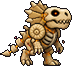
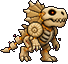
막차: 방 모양·배치 다양화, 부서지는 기물, 보스 3종, 집탄, 무기 3레벨, 스킬 레벨업, 설명 줄임

diff --git a/makcha/client/main.js b/makcha/client/main.js
@@ -1,6 +1,6 @@
 // 막차: 화면(입력·그리기·미니맵·직업 고르기). 게임 규칙은 sim/에만 있고, 여기서는 그리기만 한다
 import { step } from '../sim/world.js';
-import { createRun, offerLines, enterLine, finishLine, RUN_LINES, offerAbilities, applyAbility, ABILITIES, enhanceWeapon, ENHANCE_COST, MAX_LV, GEAR, canCraft, craftGear } from '../sim/run.js';
+import { createRun, offerLines, enterLine, finishLine, RUN_LINES, offerAbilities, applyAbility, ABILITIES, enhanceWeapon, ENHANCE_COST, MAX_LV, GEAR, canCraft, craftGear, upgradeSkill, SKILL_COST, SKILL_MAX } from '../sim/run.js';
 import { T, tileAt } from '../sim/dungeon.js';
 import { INPUT, TILE, DT, VIEW_W, VIEW_H } from '../sim/constants.js';
 import { JOBS, JOB_ORDER, WEAPONS, MONSTERS, LINES, MATS } from '../sim/data.js';
@@ -63,13 +63,13 @@ function bakeFloor(f) {
 
 // ---------- 몬스터: 구역 1 그림(삼엽충, 암모나이트, 내성균 덩어리, 화석 짜깁기 공룡). 그림은 오른쪽을 보고 있다 ----------
 function drawMon(m, t) {
-  const small = MONSTERS[m.id].small, fr = A.mons[m.id] || A.mons.germ, X = Math.round(m.x), Y = Math.round(m.y);   // 작은 내성균은 내성균 그림을 작게
-  const img = m.id === 'fossilrex' ? (m.windT > 0 ? fr[m.windT < 0.2 ? 3 : 2] : fr[Math.floor(t * 3) % 2]) : fr[Math.floor(m.t * (m.dash > 0 ? 16 : 8)) % fr.length];
+  const M = MONSTERS[m.id], small = M.small, fr = A.mons[m.id] || A.mons[M.sprite] || A.mons.germ, X = Math.round(m.x), Y = Math.round(m.y);   // 작은 내성균은 내성균 그림을 작게, 그림 없는 보스는 색을 입혀 임시로
+  const img = M.kind === 'boss' ? (m.windT > 0 ? fr[m.windT < 0.2 ? 3 : 2] : fr[Math.floor(t * 3) % 2]) : fr[Math.floor(m.t * (m.dash > 0 ? 16 : 8)) % fr.length];
   x.fillStyle = 'rgba(0,0,0,.3)'; x.beginPath(); x.ellipse(X, Y, img.width * 0.35, 3, 0, 0, 7); x.fill();
-  x.save(); x.translate(X, Y); x.scale(m.face, 1); if (m.flash > 0) x.filter = 'brightness(3)'; else if (m.stun > 0) x.filter = 'hue-rotate(180deg) saturate(2) brightness(1.3)'; if (small) x.scale(0.6, 0.6); x.drawImage(img, -Math.round(img.width / 2), -img.height + 1); x.restore();
+  x.save(); x.translate(X, Y); x.scale(m.face, 1); if (m.flash > 0) x.filter = 'brightness(3)'; else if (m.invuln) x.filter = 'grayscale(1) brightness(.7)'; else if (m.stun > 0) x.filter = 'hue-rotate(180deg) saturate(2) brightness(1.3)'; else if (M.tint) x.filter = M.tint; if (small) x.scale(0.6, 0.6); x.drawImage(img, -Math.round(img.width / 2), -img.height + 1); x.restore();
   const top = Y - img.height;
   if (game.w?.scanT > 0) { x.strokeStyle = '#ff4a3a'; x.lineWidth = 1; x.strokeRect(X - 4.5, top + img.height * 0.4 - 4.5, 9, 9); x.fillStyle = '#ff4a3a'; x.fillRect(X - 1, top + img.height * 0.4 - 1, 2, 2); }
-  if (m.id === 'fossilrex') { const W = 60; x.fillStyle = '#111'; x.fillRect(X - W / 2, top - 8, W, 5); x.fillStyle = '#d84a3a'; x.fillRect(X - W / 2 + 1, top - 7, (W - 2) * m.hp / m.maxHp, 3); }
+  if (M.kind === 'boss') { const W = 60; x.fillStyle = '#111'; x.fillRect(X - W / 2, top - 8, W, 5); x.fillStyle = '#d84a3a'; x.fillRect(X - W / 2 + 1, top - 7, (W - 2) * m.hp / m.maxHp, 3); }
   if (m.windT > 0) { x.font = 'bold 14px sans-serif'; x.textAlign = 'center'; x.lineWidth = 3; x.strokeStyle = '#000'; x.strokeText('!', X, top - 10); x.fillStyle = '#ff3a2a'; x.fillText('!', X, top - 10); }
 }
 
@@ -101,11 +101,8 @@ function feed(w) {
     else if (e.type === 'fire') { fx.flashes.push({ x: p.x + p.face * 4 + Math.cos(p.aim) * 12, y: p.y - 9 + Math.sin(p.aim) * 12, a: p.aim, t: 0.05 }); fx.shake = Math.max(fx.shake, WEAPONS[e.weapon].kick * 1.5); }
     else if (e.type === 'hurt') { fx.shake = Math.max(fx.shake, 4); fx.nums.push({ x: p.x, y: p.y - 34, v: '-' + e.amount, t: 0.8, red: true }); }
     else if (e.type === 'spark') fx.parts.push({ x: e.x, y: e.y, vx: 0, vy: -20, t: 0.15, c: '#fff' });
-    else if (e.type === 'lock') tip('🚪 문이 잠겼다! 적을 모두 쓰러뜨려라', 2);
-    else if (e.type === 'clear') tip('✅ 방을 정리했다. 문이 열렸다', 2);
-    else if (e.type === 'chest') tip('📦 보급 상자를 열었다: 재료와 부품, 가끔 무기', 2.5);
     else if (e.type === 'pickup') fx.nums.push({ x: p.x, y: p.y - 36, v: e.kind === 'mat' ? `+${MATS[e.id]}` : `+부품 ${e.n}`, t: 0.8, gold: true });
-    else if (e.type === 'getWeapon') tip(`🔫 ${josa(WEAPONS[e.id].name, '을', '를')} 들었다 · ${WEAPONS[e.id].traitText}`, 2.5);
+    else if (e.type === 'getWeapon') tip(`🔫 ${WEAPONS[e.id].name}`, 1.5);
     else if (e.type === 'swap') tip(`🔁 ${WEAPONS[p.weapons[p.cur].id].name}`, 0.9);
     else if (e.type === 'zap') fx.zaps = (fx.zaps || []).concat([{ ...e, t: 0.12 }]);
     else if (e.type === 'trapHit') { fx.rings.push({ x: e.x, y: e.y, r: e.r, t: 0.35, c: { vent: '#ff7a2a', meteor: '#ffb060', gas: '#9ad050', heat: '#ffb040', icicle: '#bfe8ff', drip: '#ff9a4a', acidrain: '#b8f040', vine: '#6ac050' }[e.kind] || '#fff' });
@@ -113,8 +110,7 @@ function feed(w) {
     else if (e.type === 'burn') fx.parts.push({ x: e.x + (Math.random() - 0.5) * 8, y: e.y, vx: 0, vy: -30, t: 0.35, c: Math.random() < 0.5 ? '#ff8a3a' : '#ffd060' });
     else if (e.type === 'sleep') { const m = w.mons.find(o => o.uid === e.uid); if (m) fx.nums.push({ x: m.x, y: m.y - 28, v: 'Zz', t: 1.2, blue: true }); }
     else if (e.type === 'propBreak') { for (let i = 0; i < 10; i++) fx.parts.push({ x: e.x, y: e.y - 6, vx: (Math.random() - 0.5) * 140, vy: (Math.random() - 0.7) * 120, t: 0.4, c: i % 2 ? '#b9844a' : '#6a4a2a' }); fx.shake = Math.max(fx.shake, 2); }
-    else if (e.type === 'pattern') { const N = { ring: '원형 탄막', fan: '부채꼴 사격', charge: '돌진', summon: '화석 소환' }; tip(`⚠ 보스: ${N[e.name] || e.name}`, 1.2); }
-    else if (e.type === 'skill') { fx.skillFlash = 0.35; tip(`✨ ${JOBS[p.job].skill.name}`, 1.2); }
+    else if (e.type === 'skill') fx.skillFlash = 0.35;
     else if (e.type === 'charge') fx.nums.push({ x: p.x, y: p.y - 36, v: `방어막 +${e.amount}`, t: 1, blue: true });
     else if (e.type === 'splash') { fx.rings.push({ x: e.x, y: e.y, r: e.r, t: 0.35, c: '#7ad0ff' }); for (let i = 0; i < 18; i++) fx.parts.push({ x: e.x, y: e.y - 4, vx: (Math.random() - 0.5) * 220, vy: (Math.random() - 0.5) * 160, t: 0.45, c: i % 2 ? '#bfe8ff' : '#ffffff' }); fx.shake = Math.max(fx.shake, 3); }
     else if (e.type === 'heal') fx.nums.push({ x: p.x, y: p.y - 34, v: '+1', t: 0.7, green: true });
@@ -170,7 +166,10 @@ function drawWorld(w, t) {
     else if (k.kind === 'mat') { const C = { cloth: '#d8c8a8', rubber: '#3a3a3a', glass: '#9ad8f0', filter: '#e8e8e8', scrap: '#8a8f98', leather: '#8a5a3a' }[k.id]; x.fillStyle = '#111'; x.fillRect(X - 5, Y - 7, 10, 9); x.fillStyle = C; x.fillRect(X - 4, Y - 6, 8, 7); }
     else { x.fillStyle = '#111'; x.fillRect(X - 5, Y - 7, 10, 10); x.fillStyle = '#c8ccd2'; x.fillRect(X - 4, Y - 6, 8, 8); x.fillStyle = '#5a5f68'; x.fillRect(X - 1, Y - 3, 3, 3); }
   }
-  for (const o of w.props) { const X = Math.round(o.x), Y = Math.round(o.y); x.fillStyle = 'rgba(0,0,0,.3)'; x.fillRect(X - 9, Y - 1, 18, 3); x.fillStyle = '#2a1c10'; x.fillRect(X - 9, Y - 15, 18, 15); x.fillStyle = '#a8743a'; x.fillRect(X - 8, Y - 14, 16, 13); x.fillStyle = '#7a5028'; x.fillRect(X - 8, Y - 9, 16, 2); x.fillRect(X - 1, Y - 14, 2, 13); x.fillStyle = '#c8945a'; x.fillRect(X - 8, Y - 14, 16, 2); }
+  for (const o of w.props) { const X = Math.round(o.x), Y = Math.round(o.y); x.fillStyle = 'rgba(0,0,0,.3)'; x.fillRect(X - 9, Y - 1, 18, 3);
+    if (o.kind === 'rock') { x.fillStyle = '#18161a'; x.fillRect(X - 10, Y - 14, 20, 14); x.fillStyle = '#6a6460'; x.fillRect(X - 9, Y - 13, 18, 12); x.fillStyle = '#8a847c'; x.fillRect(X - 8, Y - 13, 9, 4); x.fillStyle = '#4a4642'; x.fillRect(X + 2, Y - 7, 6, 5); if (o.hp < 14) { x.fillStyle = '#18161a'; x.fillRect(X - 2, Y - 12, 1, 7); x.fillRect(X - 1, Y - 6, 3, 1); } continue; }
+    if (o.kind === 'barrel') { x.fillStyle = '#18161a'; x.fillRect(X - 7, Y - 16, 14, 16); x.fillStyle = '#c83a2a'; x.fillRect(X - 6, Y - 15, 12, 14); x.fillStyle = '#e8c040'; x.fillRect(X - 6, Y - 10, 12, 3); x.fillStyle = '#1c1c1c'; x.fillRect(X - 2, Y - 10, 4, 3); x.fillStyle = '#e86a5a'; x.fillRect(X - 6, Y - 15, 12, 2); continue; }
+    x.fillStyle = '#2a1c10'; x.fillRect(X - 9, Y - 15, 18, 15); x.fillStyle = '#a8743a'; x.fillRect(X - 8, Y - 14, 16, 13); x.fillStyle = '#7a5028'; x.fillRect(X - 8, Y - 9, 16, 2); x.fillRect(X - 1, Y - 14, 2, 13); x.fillStyle = '#c8945a'; x.fillRect(X - 8, Y - 14, 16, 2); }
   if (p.dashT > 0) fx.trail.push({ x: p.x, y: p.y, t: 0.25 });
   for (const q of fx.trail) { x.globalAlpha = q.t * 2; x.fillStyle = '#7ad0ff'; x.fillRect(Math.round(q.x) - 6, Math.round(q.y) - 22, 12, 22); } x.globalAlpha = 1;
   const list = [...w.mons.map(m => ({ y: m.y, d: () => drawMon(m, t) })), { y: p.y, d: () => drawPlayer(p, t) }];
@@ -206,7 +205,7 @@ function hud(w, dt) {
   if (tipT > 0 && (tipT -= dt) <= 0) $('tip').classList.remove('on');
   // 무기 칸(웹 글씨): 바뀔 때만 다시 만든다
   const key = p.cur + ':' + p.weapons.map(it => it.id + it.lv).join(',');
-  if (key !== lastSlots) { lastSlots = key; $('wslots').innerHTML = p.weapons.map((it, i) => `<div class="ws ${i === p.cur ? 'on' : ''}"><canvas width="22" height="12" data-w="${it.id}"></canvas><div>${WEAPONS[it.id].name}${it.lv ? ' +' + it.lv : ''}<small>${WEAPONS[it.id].traitText}</small></div></div>`).join('');
+  if (key !== lastSlots) { lastSlots = key; $('wslots').innerHTML = p.weapons.map((it, i) => `<div class="ws ${i === p.cur ? 'on' : ''}"><canvas width="22" height="12" data-w="${it.id}"></canvas><div>${WEAPONS[it.id].name}${it.lv ? ' +' + it.lv : ''}</div></div>`).join('');
     for (const c of $('wslots').querySelectorAll('canvas')) { const g = c.getContext('2d'), im = A.weapons[WEAPONS[c.dataset.w].sprite]; g.imageSmoothingEnabled = false; g.drawImage(im, Math.round((22 - im.width) / 2), Math.round((12 - im.height) / 2)); } }
   $('parts').textContent = `부품 ${game.run.parts + w.loot.parts}`;
   const near = w.pickups.find(k => k.kind === 'weapon' && Math.hypot(k.x - p.x, k.y - p.y) < 22);
@@ -223,8 +222,8 @@ const clock = sec => `${Math.floor(sec / 60)}:${String(sec % 60).padStart(2, '0'
 async function loadOpenLines() { try { if (typeof supaRpc === 'function') { const o = await supaRpc('subway_lines_get', {}); if (o?.open?.length) game.open = o.open; } } catch (e) {} }
 function menu(html) { $('card').innerHTML = html; $('menu').hidden = false; $('hud').hidden = true; $('loadout').hidden = true; }
 function jobSelect() {
-  menu(`<h1>🚇 막차: 지하 생존기</h1><p>환승역마다 호선 3개 중 하나를 골라 <b>호선 ${RUN_LINES}개</b>를 지나면 탈출한다. 걸린 시간이 기록된다. WASD로 이동, 마우스 왼쪽(또는 J)으로 가까운 적을 자동 조준해 쏜다, 마우스 오른쪽(또는 K)으로 직업 스킬, Shift로 구르기(구르는 동안 공격을 피함), Q로 무기 바꾸기, E로 무기 줍기(무기는 2개까지). 방에 들어가면 문이 잠기고, 적을 모두 쓰러뜨리면 열린다. 호선 끝의 보스를 쓰러뜨리면 다음 환승역으로 가는 포털이 열린다.</p>
-    <div class="jobs">${JOB_ORDER.map(j => `<button class="job" data-j="${j}"><canvas width="19" height="30" data-c="${JOBS[j].sprite}"></canvas>${JOBS[j].name}<br><small style="color:var(--sub)">${WEAPONS[JOBS[j].weapon].name}<br>${WEAPONS[JOBS[j].weapon].traitText}<br>우클릭: ${JOBS[j].skill.name}</small></button>`).join('')}</div>`);
+  menu(`<h1>🚇 막차: 지하 생존기</h1><p>호선 ${RUN_LINES}개를 지나 탈출하라.</p><p style="font-size:13px">이동 WASD · 쏘기 마우스 왼쪽 · 스킬 마우스 오른쪽 · 구르기 Shift · 무기 바꾸기 Q · 줍기 E</p>
+    <div class="jobs">${JOB_ORDER.map(j => `<button class="job" data-j="${j}"><canvas width="19" height="30" data-c="${JOBS[j].sprite}"></canvas>${JOBS[j].name}<br><small style="color:var(--sub)">${WEAPONS[JOBS[j].weapon].name}<br>${JOBS[j].skill.name}</small></button>`).join('')}</div>`);
   for (const c of document.querySelectorAll('[data-c]')) { const g = c.getContext('2d'), im = A.chars[+c.dataset.c][0]; c.width = im.width; c.height = im.height; g.drawImage(im, 0, 0); }
   for (const b of document.querySelectorAll('[data-j]')) b.onclick = () => { document.documentElement.requestFullscreen?.().catch(() => {}); game.run = createRun({ seed: (Date.now() ^ (Math.random() * 2 ** 31)) >>> 0, job: b.dataset.j }); transfer(); };
 }
@@ -232,35 +231,37 @@ const matText = m => Object.entries(m).filter(([, v]) => v > 0).map(([k, v]) => 
 function abilityPick() {
   const r = game.run, offer = offerAbilities(r), KIND = { gun: '🔫 총', body: '💪 몸', skill: '✨ 스킬' };
   if (!offer.length) return workshop();
-  menu(`<h1>🔁 환승역 · 특수능력 고르기</h1><p>${r.visited.map(n => n + '호선').join(' → ')}을 지났다. ⏱ ${clock(Math.floor(r.ticks / 30))} · 하나를 골라 가져간다.</p>
-    <div class="jobs" style="grid-template-columns:repeat(auto-fill,minmax(220px,1fr))">${offer.map(id => { const a = ABILITIES[id]; return `<button class="job" data-a="${id}" style="text-align:left"><small style="color:var(--acc)">${KIND[a.kind]}</small><br><b>${a.name}</b><br><small style="color:var(--sub)">${a.text}</small></button>`; }).join('')}</div>
+  menu(`<h1>🔁 환승역 · 특수능력 고르기</h1><p>⏱ ${clock(Math.floor(r.ticks / 30))}</p>
+    <div class="jobs" style="grid-template-columns:repeat(auto-fill,minmax(220px,1fr))">${offer.map(id => { const a = ABILITIES[id]; return `<button class="job" data-a="${id}" style="text-align:left"><small style="color:var(--acc)">${KIND[a.kind]}</small><br><b style="font-size:17px">${a.name}</b></button>`; }).join('')}</div>
     ${r.abilities.length ? `<p style="margin-top:10px">가진 특수능력: ${r.abilities.map(id => ABILITIES[id].name).join(', ')}</p>` : ''}`);
   for (const b of document.querySelectorAll('[data-a]')) b.onclick = () => { applyAbility(r, b.dataset.a); workshop(); };
 }
 function workshop(msg = '') {
   const r = game.run, slots = ['head', 'body', 'feet'], SL = { head: '머리', body: '몸', feet: '발' };
   menu(`<h1>🔧 정비소</h1><p>부품 <b>${r.parts}</b> · 재료: ${matText(r.mats)} · 장비: ${slots.map(sl => `${SL[sl]} ${r.gear[sl] ? GEAR[r.gear[sl]].name : '없음'}`).join(' · ')}</p>${msg ? `<p style="color:var(--acc)">${msg}</p>` : ''}
-    <h2 style="font-size:16px;margin:10px 0 4px">무기 강화(부품)</h2><div class="jobs" style="grid-template-columns:repeat(auto-fill,minmax(220px,1fr))">${r.weapons.map((it, i) => { const W = WEAPONS[it.id], c = ENHANCE_COST(it.lv), ok = it.lv < MAX_LV && r.parts >= c;
-      return `<button class="job" data-e="${i}" style="text-align:left;opacity:${ok ? 1 : 0.5}"><b>${W.name} +${it.lv}</b><br><small style="color:var(--sub)">${W.traitText}<br>${it.lv >= MAX_LV ? '최고 단계' : `+${it.lv + 1}로: 피해 +20%, 연사 +5% · 부품 ${c}`}</small></button>`; }).join('')}</div>
+    <h2 style="font-size:16px;margin:10px 0 4px">강화(부품)</h2><div class="jobs" style="grid-template-columns:repeat(auto-fill,minmax(220px,1fr))">${r.weapons.map((it, i) => { const W = WEAPONS[it.id], c = ENHANCE_COST(it.lv), ok = it.lv < MAX_LV && r.parts >= c;
+      return `<button class="job" data-e="${i}" style="text-align:left;opacity:${ok ? 1 : 0.5}"><b>${W.name} +${it.lv}</b><br><small style="color:var(--sub)">${it.lv >= MAX_LV ? '최고 단계' : `→ +${it.lv + 1} · 부품 ${c}`}</small></button>`; }).join('')}
+      ${(() => { const S = JOBS[r.job].skill, c = SKILL_COST(r.skillLv), ok = r.skillLv < SKILL_MAX && r.parts >= c; return `<button class="job" id="skillUp" style="text-align:left;opacity:${ok ? 1 : 0.5}"><b>✨ ${S.name} Lv ${r.skillLv}</b><br><small style="color:var(--sub)">${r.skillLv >= SKILL_MAX ? '최고 레벨' : `→ Lv ${r.skillLv + 1} · 부품 ${c}`}</small></button>`; })()}</div>
     <h2 style="font-size:16px;margin:12px 0 4px">장비 만들기(재료)</h2><div class="jobs" style="grid-template-columns:repeat(auto-fill,minmax(200px,1fr))">${Object.entries(GEAR).map(([id, g]) => { const ok = canCraft(r, id);
-      return `<button class="job" data-g="${id}" style="text-align:left;opacity:${ok ? 1 : 0.5}"><b>${g.name}</b> <small>(${SL[g.slot]})</small>${r.gear[g.slot] === id ? ' ✔' : ''}<br><small style="color:var(--sub)">${g.text}<br>재료: ${matText(g.recipe)}</small></button>`; }).join('')}</div>
+      return `<button class="job" data-g="${id}" style="text-align:left;opacity:${ok ? 1 : 0.5}"><b>${g.name}</b> <small>(${SL[g.slot]})</small>${r.gear[g.slot] === id ? ' ✔' : ''}<br><small style="color:var(--sub)">${r.gear[g.slot] === id ? g.text + '<br>' : ''}${matText(g.recipe)}</small></button>`; }).join('')}</div>
     <div style="margin-top:14px"><button class="job" id="next" style="background:var(--acc);color:#1a1410;font-weight:800">다음 호선 고르기 →</button></div>`);
   for (const b of document.querySelectorAll('[data-e]')) b.onclick = () => workshop(enhanceWeapon(r, +b.dataset.e) ? `${josa(WEAPONS[r.weapons[+b.dataset.e].id].name, '을', '를')} +${r.weapons[+b.dataset.e].lv}로 강화했다` : '부품이 모자라거나 최고 단계다');
   for (const b of document.querySelectorAll('[data-g]')) b.onclick = () => workshop(craftGear(r, b.dataset.g) ? `${josa(GEAR[b.dataset.g].name, '을', '를')} 만들어 입었다` : '재료가 모자란다');
+  $('skillUp').onclick = () => workshop(upgradeSkill(r) ? `${JOBS[r.job].skill.name} Lv ${r.skillLv}` : '부품이 모자란다');
   $('next').onclick = transfer;
 }
 function transfer() {
   const r = game.run, offer = offerLines(r, game.open), first = r.visited.length === 0;
   game.w = null;
-  menu(`<h1>${first ? '🏠 은신처 역' : '🔁 환승역'} · ${r.visited.length + 1}/${RUN_LINES}번째 호선</h1><p>${first ? '첫 호선을 고르자.' : `지금까지 ${r.visited.map(n => n + '호선').join(' → ')} · ⏱ ${clock(Math.floor(r.ticks / 30))}`} 표지판의 재난을 보고 고르자. 뒤에 들어가는 호선일수록 적이 강해진다.</p>
+  menu(`<h1>${first ? '🏠 은신처 역' : '🔁 환승역'} · ${r.visited.length + 1}/${RUN_LINES}번째 호선</h1><p>${first ? '첫 호선을 고르자.' : `지금까지 ${r.visited.map(n => n + '호선').join(' → ')} · ⏱ ${clock(Math.floor(r.ticks / 30))}`} </p>
     <div class="jobs" style="grid-template-columns:repeat(auto-fill,minmax(220px,1fr))">${offer.map(n => { const L = LINES[n]; return `<button class="job" data-l="${n}" style="text-align:left">
       <span style="display:inline-flex;width:30px;height:30px;border-radius:50%;background:${L.color};color:#fff;font-weight:800;align-items:center;justify-content:center;margin-right:6px">${n}</span><b>${L.name}</b>
-      <br><small style="color:var(--sub)">재난: ${L.hazard}<br>단원: ${L.unit}${r.visited.includes(n) ? '<br>(다시 가는 호선)' : ''}${L.ready ? '' : '<br>그림 준비 중(1호선 몬스터로 시험)'}</small></button>`; }).join('')}</div>`);
+      ${r.visited.includes(n) ? '<br><small style="color:var(--sub)">다시 가는 호선</small>' : ''}</button>`; }).join('')}</div>`);
   for (const b of document.querySelectorAll('[data-l]')) b.onclick = () => startLine(+b.dataset.l);
 }
 function startLine(n) {
   const w = enterLine(game.run, n); game.w = w; game.bg = bakeFloor(w.floor); game.acc = 0;
-  $('menu').hidden = true; $('hud').hidden = false; $('loadout').hidden = false; lastSlots = ''; tip(`🚇 ${n}호선 ${LINES[n].name} · 함정: ${LINES[n].trapText}`, 4);
+  $('menu').hidden = true; $('hud').hidden = false; $('loadout').hidden = false; lastSlots = ''; tip(`🚇 ${n}호선 ${LINES[n].name}`, 2);
 }
 function endLine(w) {
   const r = game.run; finishLine(r, w); game.w = null;

diff --git a/makcha/sim/world.js b/makcha/sim/world.js
@@ -11,11 +11,11 @@ const DASH_SPEED = 420, PLAYER_SPEED = 140, ROLL_SPEED = 330, ROLL_T = 8, ROLL_C
 const MAT_IDS = Object.keys(MATS);
 
 // 특수능력을 무기·몸·스킬 수치로 바꾼다
-function modsOf(ab) {
+function modsOf(ab, skillLv = 1) {
   const has = id => ab.includes(id);
   return { extraShot: has('extraShot') ? 1 : 0, pierce: has('pierceUp') ? 1 : 0, bounce: has('bounce') ? 1 : 0, homing: has('homing'), boom: has('boom'),
-    rateMul: has('rapid') ? 1.25 : 1, dmgMul: has('bigShot') ? 1.3 : 1, speedMul: has('swift') ? 1.12 : 1, rollCdMul: has('rollMaster') ? 0.5 : 1,
-    scavenger: has('scavenger'), skillCdMul: has('skillCd') ? 0.7 : 1, skillPower: has('skillPower') ? 1.5 : 1, skillCharge: has('skillCharge') };
+    rateMul: has('rapid') ? 1.25 : 1, spreadMul: has('focus') ? 0.35 : 1, dmgMul: has('bigShot') ? 1.3 : 1, speedMul: has('swift') ? 1.12 : 1, rollCdMul: has('rollMaster') ? 0.5 : 1,
+    scavenger: has('scavenger'), skillCdMul: (has('skillCd') ? 0.7 : 1) * (1 - 0.15 * (skillLv - 1)), skillPower: (has('skillPower') ? 1.5 : 1) * (1 + 0.3 * (skillLv - 1)), skillCharge: has('skillCharge') };
 }
 
 export function createWorld({ seed, job, line, order, loadout }) {
@@ -24,12 +24,13 @@ export function createWorld({ seed, job, line, order, loadout }) {
     stats: { hp: J.hp, maxHp: J.hp, shield: J.shield, maxShield: J.shield, energy: J.energy, maxEnergy: J.energy }, ...(loadout || {}) };   // 넘겨받지 않은 항목은 직업 기본값
   const bonusShield = Object.values(L.gear).reduce((a, g) => a + (g && GEAR[g].shield || 0), 0);
   // 상자: 전투·엘리트 방마다 2~3개, 부수면 부품·재료가 나온다
-  const props = [];
-  for (const r of floor.rooms) if (r.type === 'battle' || r.type === 'elite') for (let i = 0, n = 2 + rng.int(2); i < n; i++) {
+  // 부서지는 기물: 상자(부품·재료), 바위(탄을 막는 엄폐물, 부수면 고철), 드럼통(터지면 둘레에 큰 피해)
+  const props = [], PROP = { crate: { hp: 6, r: 8 }, rock: { hp: 14, r: 9 }, barrel: { hp: 3, r: 7 } };
+  for (const r of floor.rooms) if (r.type === 'battle' || r.type === 'elite') for (const [kind, n] of [['crate', 1 + rng.int(3)], ['rock', 1 + rng.int(3)], ['barrel', rng.int(3)]]) for (let i = 0; i < n; i++) {
     for (let k = 0; k < 30; k++) {
       const tx = r.x0 + 1 + rng.int(r.w - 2), ty = r.y0 + 1 + rng.int(r.h - 2);
-      if (Math.abs(tx - r.cx) < 3 || Math.abs(ty - r.cy) < 3 || isSolid(floor, tx, ty) || props.some(o => Math.hypot(o.x - (tx + 0.5) * TILE, o.y - (ty + 0.5) * TILE) < 30)) continue;
-      props.push({ kind: 'crate', room: r.id, x: (tx + 0.5) * TILE, y: (ty + 0.7) * TILE, hp: 6, r: 8 }); break;
+      if (Math.abs(tx - r.cx) < 3 || Math.abs(ty - r.cy) < 3 || isSolid(floor, tx, ty) || isSolid(floor, tx - 1, ty) || isSolid(floor, tx + 1, ty) || props.some(o => Math.hypot(o.x - (tx + 0.5) * TILE, o.y - (ty + 0.5) * TILE) < 28)) continue;
+      props.push({ kind, room: r.id, x: (tx + 0.5) * TILE, y: (ty + 0.7) * TILE, ...PROP[kind] }); break;
     }
   }
   // 호선별 함정: 전투·엘리트·보스 방마다 그 호선의 함정을 놓는다
@@ -41,7 +42,7 @@ export function createWorld({ seed, job, line, order, loadout }) {
     for (let i = 0; i < 2; i++) { const p = freeSpot(r); if (p) traps.push({ kind, mode, room: r.id, x: p[0], y: p[1], r: mode === 'pool' ? 20 : 18, t: 1.5 + rng.next() * 3, warn: 0, on: false }); }
   }
   return {
-    line, order, diff: difficulty(order), traps, falls: [], mods: modsOf(L.abilities), tick: 0, rng: createRng(seed).fork('world').state(), done: null, events: [], nextId: 1,
+    bossId: rng.pick(LINES[line].bosses), line, order, diff: difficulty(order), traps, falls: [], mods: modsOf(L.abilities, L.skillLv || 1), tick: 0, rng: createRng(seed).fork('world').state(), done: null, events: [], nextId: 1,
     floor, locked: [], rooms: floor.rooms.map(r => ({ visited: false, cleared: r.type !== 'battle' && r.type !== 'elite' && r.type !== 'boss', locked: false, wave: 0, opened: false })),
     player: { job, x: (s.cx + 0.5) * TILE, y: (s.cy + 0.5) * TILE, aim: 0, lastDir: 0, face: 1, moving: false,
       ...L.stats, maxShield: L.stats.maxShield + bonusShield, weapons: L.weapons.map(x => ({ ...x })), cur: Math.min(L.cur, L.weapons.length - 1), gear: { ...L.gear },
@@ -122,12 +123,12 @@ function addMon(w, rid, id, x, y, rng) {
 }
 function spawnWave(w, rng, rid) {
   const r = w.floor.rooms[rid], st = w.rooms[rid], wave = WAVES[r.type][st.wave++], p = w.player;
-  for (const [id, count] of wave) for (let i = 0; i < count + (MONSTERS[id].kind === 'boss' ? 0 : w.diff.extra); i++) {
+  for (const [id0, count] of wave) { const id = id0 === 'BOSS' ? w.bossId : id0; for (let i = 0; i < count + (MONSTERS[id].kind === 'boss' ? 0 : w.diff.extra); i++) {
     let x, y, k = 0;
     do { x = (r.x0 + 1.5 + rng.int(r.w - 2)) * TILE; y = (r.y0 + 1.5 + rng.int(r.h - 2)) * TILE; k++; } while (k < 40 && (Math.hypot(x - p.x, y - p.y) < 90 || solidAt(w, x, y)));
     if (MONSTERS[id].kind === 'boss') { x = (r.cx + 0.5) * TILE; y = (r.y0 + 3) * TILE; }
     addMon(w, rid, id, x, y, rng);
-  }
+  } }
   w.events.push({ type: 'wave', room: rid, index: st.wave });
 }
 
@@ -136,7 +137,7 @@ function nearestTo(w, x, y, range, skip) { let best = null, bd = range; for (con
 // ---------- 무기: 강화 단계와 특수능력을 얹은 수치 ----------
 export function weaponStat(w, slot) {
   const it = w.player.weapons[slot], W = WEAPONS[it.id], M = w.mods;
-  return { ...W, dmg: W.dmg * (1 + 0.2 * it.lv) * M.dmgMul, rate: W.rate * (1 + 0.05 * it.lv) * M.rateMul, count: W.count + M.extraShot, spread: W.spread + (M.extraShot ? 0.12 : 0) };
+  return { ...W, dmg: W.dmg * (1 + 0.3 * it.lv) * M.dmgMul, rate: W.rate * (1 + 0.08 * it.lv) * M.rateMul, count: W.count + M.extraShot, spread: (W.spread + (M.extraShot ? 0.12 : 0)) * M.spreadMul };
 }
 
 function updatePlayer(w, input, rng) {
@@ -183,10 +184,18 @@ export function hurtPlayer(w, amount) {
   if (p.hp <= 0) { w.done = 'dead'; w.events.push({ type: 'dead' }); }
 }
 
-function hitMon(w, m, dmg, kx = 0, ky = 0) { dmg = Math.round(dmg * 10) / 10; m.hp -= dmg; m.flash = 3; m.kx += kx; m.ky += ky; w.events.push({ type: 'hit', uid: m.uid, amount: Math.round(dmg), x: m.x, y: m.y }); }
+function hitMon(w, m, dmg, kx = 0, ky = 0) { if (m.invuln) dmg = 0; dmg = Math.round(dmg * 10) / 10; m.hp -= dmg; m.flash = 3; m.kx += kx; m.ky += ky; w.events.push({ type: 'hit', uid: m.uid, amount: Math.round(dmg), x: m.x, y: m.y }); }
 
 function breakProp(w, o, rng) {
-  o.hp = 0; w.events.push({ type: 'propBreak', x: o.x, y: o.y });
+  o.hp = 0; w.events.push({ type: 'propBreak', x: o.x, y: o.y, kind: o.kind });
+  if (o.kind === 'barrel') {   // 드럼통: 터지며 둘레 40에 큰 피해(나도 맞는다)
+    w.events.push({ type: 'splash', x: o.x, y: o.y, r: 40 });
+    for (const m of w.mons) if (Math.hypot(m.x - o.x, m.y - o.y) < 40 + m.r) hitMon(w, m, 10, Math.sign(m.x - o.x) * 8, Math.sign(m.y - o.y) * 4);
+    if (Math.hypot(w.player.x - o.x, w.player.y - o.y) < 40) hurtPlayer(w, 1);
+    for (const q of w.props) if (q !== o && q.hp > 0 && Math.hypot(q.x - o.x, q.y - o.y) < 40) { q.hp -= 10; if (q.hp <= 0) breakProp(w, q, rng); }   // 옆 기물도 연쇄로
+    return;
+  }
+  if (o.kind === 'rock') { if (rng.chance(0.5)) w.pickups.push({ kind: 'mat', id: 'scrap', x: o.x, y: o.y }); return; }
   w.pickups.push({ kind: 'parts', n: 1, x: o.x, y: o.y });
   if (rng.chance(0.4)) w.pickups.push({ kind: 'mat', id: rng.pick(MAT_IDS), x: o.x + 8, y: o.y + 4 });
 }
@@ -229,16 +238,18 @@ function updateShots(w, rng) {
 function enemyShot(w, m, a, sp, dmg, size = 3) { w.eshots.push({ x: m.x, y: m.y - MONSTERS[m.id].cy, vx: Math.cos(a) * sp, vy: Math.sin(a) * sp, life: 3 * TICK_HZ, dmg, size, src: m.id }); }
 
 // ---------- 보스 패턴: 원형·이중 탄막, 회오리 탄, 부채꼴 사격, 돌진, 화석 소환, 운석 낙하 중 직전과 다른 것을 무작위로 ----------
-const BOSS_PATTERNS = ['ring', 'double', 'spiral', 'fan', 'charge', 'summon', 'meteor'];
 function bossAct(w, m, rng) {
   const p = w.player, M = MONSTERS[m.id], a = Math.atan2(p.y - m.y, p.x - m.x), rage = m.hp < m.maxHp / 2;
-  const pool = BOSS_PATTERNS.filter(x => x !== m.pat); m.pat = rng.pick(pool); w.events.push({ type: 'pattern', name: m.pat, uid: m.uid });
+  const pool = M.patterns.filter(x => x !== m.pat); m.pat = rng.pick(pool); w.events.push({ type: 'pattern', name: m.pat, uid: m.uid });
   if (m.pat === 'ring') { const n = rage ? 22 : 16; for (let i = 0; i < n; i++) enemyShot(w, m, a + i / n * Math.PI * 2, M.shotSpeed, 1, 4); }
   if (m.pat === 'double') { for (let i = 0; i < 14; i++) enemyShot(w, m, a + i / 14 * Math.PI * 2, M.shotSpeed * 0.9, 1, 4); m.ringLater = 0.35; }
   if (m.pat === 'spiral') { m.spiralT = rage ? 2.4 : 1.8; m.spiralA = a; }
   if (m.pat === 'fan') { const n = rage ? 9 : 7; for (let k = 0; k < 2; k++) for (let i = 0; i < n; i++) enemyShot(w, m, a + (i / (n - 1) - 0.5) * 1.0 + k * 0.07, M.shotSpeed * (1.3 + k * 0.25), 2, 3); }
   if (m.pat === 'charge') { m.dash = rage ? 0.9 : 0.7; m.dashA = a; }
-  if (m.pat === 'summon') for (let i = 0; i < (rage ? 4 : 3); i++) addMon(w, m.room, ['trilobite', 'ammonite', 'germ'][i % 3], m.x + (i - 1.5) * 26, m.y + 30, rng);
+  if (m.pat === 'summon' || m.pat === 'brood') for (let i = 0; i < (m.pat === 'brood' ? 5 : rage ? 4 : 3); i++) { const x = m.x + (i - 2) * 22, y = m.y + 30; addMon(w, m.room, M.minions[i % M.minions.length], blocked(w, x, y, 5) ? m.x : x, blocked(w, x, y, 5) ? m.y : y, rng); }
+  if (m.pat === 'erupt') for (let i = 0; i < (rage ? 6 : 4); i++) { const x = p.x + rng.range(-90, 90), y = p.y + rng.range(-60, 60); w.falls.push({ kind: 'vent', x, y, t: 0.7 + i * 0.15, r: 26 }); }
+  if (m.pat === 'slam') { m.slamN = rage ? 3 : 2; m.slamT = 0; }
+  if (m.pat === 'shell') { m.shellT = 1.6; m.invuln = true; }
   if (m.pat === 'meteor') for (let i = 0; i < (rage ? 7 : 5); i++) w.falls.push({ kind: 'meteor', x: p.x + rng.range(-70, 70), y: p.y + rng.range(-50, 50), t: 0.8 + i * 0.12, r: 22 });
 }
 
@@ -253,6 +264,8 @@ function updateMons(w, rng) {
     let vx = dx / d, vy = dy / d, sp = m.speed * (m.slowT > 0 ? 0.5 : 1);
     if (M.kind === 'boss') {
       if (m.spiralT > 0) { m.spiralT -= DT; if (Math.floor(m.spiralT * 30) % 3 === 0) { m.spiralA += 0.32; for (const o of [0, Math.PI]) enemyShot(w, m, m.spiralA + o, M.shotSpeed * 1.1, 1, 3); } }
+      if (m.slamN > 0 && (m.slamT -= DT) <= 0) { m.slamN--; m.slamT = 0.45; w.events.push({ type: 'splash', x: m.x, y: m.y, r: 50 }); for (let i = 0; i < 20; i++) enemyShot(w, m, i / 20 * Math.PI * 2 + m.slamN * 0.15, 100 + m.slamN * 30, 1, 4); }   // 땅 내려치기: 충격파 고리 여러 겹
+      if (m.shellT > 0 && (m.shellT -= DT) <= 0) { m.invuln = false; for (let i = 0; i < 24; i++) enemyShot(w, m, i / 24 * Math.PI * 2, 160, 1, 3); }   // 껍데기 웅크리기: 무적 뒤 사방 발사
       if (m.ringLater > 0 && (m.ringLater -= DT) <= 0) for (let i = 0; i < 14; i++) enemyShot(w, m, i / 14 * Math.PI * 2 + Math.PI / 14, M.shotSpeed * 1.2, 1, 4);
       if (m.dash > 0) { m.dash -= DT; vx = Math.cos(m.dashA); vy = Math.sin(m.dashA); sp = 240; }
       else if (m.windT > 0) { sp = 0; m.windT -= DT; if (m.windT <= 0) { bossAct(w, m, rng); m.cd = m.hp < m.maxHp / 2 ? 0.9 : 1.3; } }

diff --git a/makcha/sim/data.js b/makcha/sim/data.js
@@ -29,21 +29,25 @@ export const MONSTERS = {
   ammonite:  { name: '암모나이트', hp: 9, speed: 50, r: 9, cy: 10, kind: 'roller', atk: 1, dashSpeed: 260,
     attack: { type: 'roll', wind: 0.45, dash: 0.6, reach: 220, cd: 2.2, ink: { n: 8, speed: 120, size: 4 } }, attackText: '웅크렸다 굴러오고, 멈추면 먹물을 사방으로 뿜는다' },
   fossilrex: { name: '화석 짜깁기 공룡', hp: 330, speed: 45, r: 24, cy: 30, kind: 'boss', atk: 2, shotSpeed: 140,
-    attack: { type: 'boss', speed: 140 }, attackText: '원형·이중 탄막, 회오리 탄, 부채꼴 사격, 돌진, 화석 소환, 운석 낙하를 불규칙하게 쓴다' },
+    attack: { type: 'boss', speed: 140 }, patterns: ['ring', 'double', 'spiral', 'fan', 'charge', 'summon', 'meteor'], minions: ['trilobite', 'ammonite', 'germ'], attackText: '원형·이중 탄막, 회오리 탄, 부채꼴 사격, 돌진, 화석 소환, 운석 낙하' },
+  magmagolem: { name: '용암 바위 거인', hp: 360, speed: 35, r: 24, cy: 30, kind: 'boss', atk: 2, shotSpeed: 120, sprite: 'fossilrex', tint: 'hue-rotate(-30deg) saturate(2) brightness(.8)',
+    attack: { type: 'boss', speed: 120 }, patterns: ['erupt', 'slam', 'ring', 'meteor', 'charge'], minions: ['germ'], attackText: '분화구 분출, 땅 내려치기 충격파, 원형 탄막, 운석, 돌진' },
+  trilomother: { name: '거대 삼엽충 어미', hp: 300, speed: 55, r: 24, cy: 30, kind: 'boss', atk: 2, shotSpeed: 150, sprite: 'fossilrex', tint: 'sepia(1) hue-rotate(10deg) saturate(1.5)',
+    attack: { type: 'boss', speed: 150 }, patterns: ['brood', 'fan', 'spiral', 'shell', 'charge'], minions: ['trilobite', 'trilobite', 'ammonite'], attackText: '새끼 떼 소환, 부채꼴 사격, 회오리 탄, 껍데기 웅크리기(무적 뒤 사방 발사), 돌진' },
 };
 // 방마다 물결 목록, 물결은 [몬스터, 마리 수] 묶음 목록
-export const WAVES = { battle: [[['trilobite', 3]], [['ammonite', 2], ['germ', 1]]], elite: [[['trilobite', 4], ['ammonite', 1]], [['germ', 3], ['ammonite', 2]]], boss: [[['fossilrex', 1]]] };
+export const WAVES = { battle: [[['trilobite', 3]], [['ammonite', 2], ['germ', 1]]], elite: [[['trilobite', 4], ['ammonite', 1]], [['germ', 3], ['ammonite', 2]]], boss: [[['BOSS', 1]]] };   // BOSS는 그 호선 보스 중 하나로 바뀐다
 // 9개 호선(혼합안). 실내 모습·몬스터·보스·재난은 1호선부터 차례로 채운다. 지금은 1호선 몬스터를 모든 호선에 임시로 쓴다
 export const LINES = {
-  1: { name: '지층 공사선', color: '#0052A4', unit: '지질시대, 대멸종', hazard: '낙석·먼지', traps: ['vent', 'meteor'], trapText: '화산 분화구가 경고 뒤 분출해 용암을 남기고, 표시된 자리에 운석이 떨어진다(대멸종의 원인 가설)', ready: true },
-  2: { name: '진화 실험선', color: '#00A84D', unit: '자연선택, 생물다양성', hazard: '감염 구름', traps: ['gas', 'spark'], trapText: '배양 탱크에서 감염 구름이 새어 나오고, 고장 난 실험 장비 바닥에 전기가 흐른다' },
-  3: { name: '텃밭 마을선', color: '#EF7C1C', unit: '생태계 구성, 먹이 관계', hazard: '생태 교란', traps: ['vine', 'puddle'], trapText: '밟으면 덩굴이 발을 묶고, 연못에서는 느려진다' },
-  4: { name: '녹슨 침수선', color: '#00A5DE', unit: '산화·환원', hazard: '침수·부식', traps: ['puddle', 'drip'], trapText: '물웅덩이에서 느려지고, 녹슨 천장에서 쇳물이 떨어진다' },
-  5: { name: '산성비 매연선', color: '#996CAC', unit: '산·염기, 중화', hazard: '산성비', traps: ['acidrain', 'gas'], trapText: '표시된 자리에 산성비가 떨어져 웅덩이를 남기고, 매연이 뿜어 나온다' },
-  6: { name: '냉동 창고선', color: '#CD7C2F', unit: '에너지 출입', hazard: '한파', traps: ['icicle', 'puddle'], trapText: '천장에서 고드름이 떨어지고, 얼음 바닥에서 느려진다' },
-  7: { name: '폭염 지상선', color: '#747F00', unit: '온난화, 엘니뇨, 사막화', hazard: '폭염·모래 폭풍', traps: ['heat', 'meteor'], trapText: '뜨거운 지면이 분출하고, 모래 폭풍에 돌이 날아든다' },
-  8: { name: '정전 발전소선', color: '#E6186C', unit: '태양 에너지, 발전, 효율', hazard: '정전', traps: ['spark', 'heat'], trapText: '전기 바닥이 번갈아 켜지고, 과열된 발전기가 열기를 뿜는다' },
-  9: { name: '관제 센터선', color: '#BDB092', unit: '감염병, 빅데이터·AI', hazard: '감염병·데이터 교란', traps: ['spark', 'gas'], trapText: '보안 전기 바닥과 오염된 공기 정화 장치' },
+  1: { name: '지층 공사선', color: '#0052A4', unit: '지질시대, 대멸종', hazard: '낙석·먼지', traps: ['vent', 'meteor'], trapText: '화산 분화구가 경고 뒤 분출해 용암을 남기고, 표시된 자리에 운석이 떨어진다(대멸종의 원인 가설)', ready: true, bosses: ['fossilrex', 'magmagolem', 'trilomother'] },
+  2: { name: '진화 실험선', color: '#00A84D', unit: '자연선택, 생물다양성', hazard: '감염 구름', traps: ['gas', 'spark'], trapText: '배양 탱크에서 감염 구름이 새어 나오고, 고장 난 실험 장비 바닥에 전기가 흐른다', bosses: ['fossilrex'] },
+  3: { name: '텃밭 마을선', color: '#EF7C1C', unit: '생태계 구성, 먹이 관계', hazard: '생태 교란', traps: ['vine', 'puddle'], trapText: '밟으면 덩굴이 발을 묶고, 연못에서는 느려진다', bosses: ['fossilrex'] },
+  4: { name: '녹슨 침수선', color: '#00A5DE', unit: '산화·환원', hazard: '침수·부식', traps: ['puddle', 'drip'], trapText: '물웅덩이에서 느려지고, 녹슨 천장에서 쇳물이 떨어진다', bosses: ['fossilrex'] },
+  5: { name: '산성비 매연선', color: '#996CAC', unit: '산·염기, 중화', hazard: '산성비', traps: ['acidrain', 'gas'], trapText: '표시된 자리에 산성비가 떨어져 웅덩이를 남기고, 매연이 뿜어 나온다', bosses: ['fossilrex'] },
+  6: { name: '냉동 창고선', color: '#CD7C2F', unit: '에너지 출입', hazard: '한파', traps: ['icicle', 'puddle'], trapText: '천장에서 고드름이 떨어지고, 얼음 바닥에서 느려진다', bosses: ['fossilrex'] },
+  7: { name: '폭염 지상선', color: '#747F00', unit: '온난화, 엘니뇨, 사막화', hazard: '폭염·모래 폭풍', traps: ['heat', 'meteor'], trapText: '뜨거운 지면이 분출하고, 모래 폭풍에 돌이 날아든다', bosses: ['fossilrex'] },
+  8: { name: '정전 발전소선', color: '#E6186C', unit: '태양 에너지, 발전, 효율', hazard: '정전', traps: ['spark', 'heat'], trapText: '전기 바닥이 번갈아 켜지고, 과열된 발전기가 열기를 뿜는다', bosses: ['fossilrex'] },
+  9: { name: '관제 센터선', color: '#BDB092', unit: '감염병, 빅데이터·AI', hazard: '감염병·데이터 교란', traps: ['spark', 'gas'], trapText: '보안 전기 바닥과 오염된 공기 정화 장치', bosses: ['fossilrex'] },
 };
 // 장비 재료(아이템 방·상자·적에게서 나옴)
 export const MATS = { cloth: '천', rubber: '고무', glass: '유리', filter: '필터', scrap: '고철', leather: '가죽' };

diff --git a/makcha/sim/dungeon.js b/makcha/sim/dungeon.js
@@ -8,7 +8,8 @@ export const T = { WALL: 0, FLOOR: 1, DOOR: 2 };
 const SIZE = { start: [11, 9], battle: [19, 13], elite: [19, 13], chest: [11, 9], shop: [13, 9], event: [13, 11], exit: [11, 9], boss: [27, 19] };
 const DIRS = [[1, 0], [-1, 0], [0, 1], [0, -1]];
 const CORRIDOR = 3;   // 통로 폭(타일)
-const LAYOUTS = ['corners', 'rows', 'bars', 'diagonal', 'scatter'];   // 방 안 지형지물 배치 종류
+const LAYOUTS = ['corners', 'rows', 'bars', 'diagonal', 'scatter', 'walls'];   // 방 안 지형지물 배치 종류(두 가지를 섞음)
+const SHAPES = ['rect', 'notch', 'cross', 'octagon', 'lshape'];   // 방 모양
 
 function layout(rng, order) {
   // 주 경로: 시작 → 전투 방들 → 호선 보스. 뒤에 들어간 호선일수록 전투 방이 하나 더
@@ -71,25 +72,41 @@ export function generateFloor(seed, { line, order }) {
     }
     for (const id of [L.id, R.id]) { for (const k of tilesOf[id]) tiles[k] = T.DOOR; doors.push({ room: id, to: id === L.id ? R.id : L.id, tiles: tilesOf[id] }); }
   }
-  // 지형지물: 전투·엘리트·보스 방마다 배치를 골라 바위·기둥을 놓는다(탄과 몸을 막는 엄폐물)
-  // 규칙: 가운데 십자 길(문으로 이어지는 길)은 비우고, 덩어리끼리·벽과는 한 칸 이상 띄워서 막힌 구석이 생기지 않게 한다
+  // 방 모양: 전투·엘리트 방은 귀퉁이를 깎거나(notch·cross·octagon), 한 귀퉁이를 크게 잘라 ㄱ자로(lshape) 만든다
+  // 가운데 십자 길(문으로 이어지는 길, 폭 5칸)은 깎지 않는다
+  for (const r of rooms) if (r.type === 'battle' || r.type === 'elite') {
+    r.shape = rng.pick(SHAPES);
+    const keep = (x, y) => Math.abs(x - r.cx) <= 2 || Math.abs(y - r.cy) <= 2;
+    const cut = (x0, y0, x1, y1) => { for (let y = y0; y <= y1; y++) for (let x = x0; x <= x1; x++) if (!keep(x, y)) set(x, y, T.WALL); };
+    const X1 = r.x0 + r.w - 1, Y1 = r.y0 + r.h - 1, corners = [[0, 0], [1, 0], [0, 1], [1, 1]];
+    const corner = ([cxs, cys], a, b) => cut(cxs ? X1 - a + 1 : r.x0, cys ? Y1 - b + 1 : r.y0, cxs ? X1 : r.x0 + a - 1, cys ? Y1 : r.y0 + b - 1);
+    if (r.shape === 'notch') for (const c of corners) if (rng.chance(0.5)) corner(c, 2 + rng.int(3), 2 + rng.int(2));
+    if (r.shape === 'cross') { const a2 = 3 + rng.int(2), b2 = 2 + rng.int(2); for (const c of corners) corner(c, a2, b2); }
+    if (r.shape === 'octagon') { const k = 3 + rng.int(2); for (const [cxs, cys] of corners) for (let i = 0; i < k; i++) for (let j = 0; j < k - i; j++) { const x = cxs ? X1 - i : r.x0 + i, y = cys ? Y1 - j : r.y0 + j; if (!keep(x, y)) set(x, y, T.WALL); } }
+    if (r.shape === 'lshape') corner(rng.pick(corners), Math.floor(r.w / 2) - 2, Math.floor(r.h / 2) - 2);
+  }
+  // 지형지물: 배치 종류 두 가지를 섞고 크기·개수도 무작위. 덩어리끼리·벽과는 한 칸 이상 띄워 막힌 구석이 없게 한다
   const pillars = [];
   for (const r of rooms) if (r.type === 'battle' || r.type === 'elite' || r.type === 'boss') {
-    r.layout = r.type === 'boss' ? 'corners' : rng.pick(LAYOUTS);
+    const lay = r.type === 'boss' ? ['corners'] : [rng.pick(LAYOUTS), rng.pick(LAYOUTS)]; r.layout = [...new Set(lay)].join('+');
     const mine = [], place = (x, y, bw, bh) => {
-      if (x < r.x0 + 1 || y < r.y0 + 1 || x + bw > r.x0 + r.w - 1 || y + bh > r.y0 + r.h - 1) return false;
-      for (let yy = y; yy < y + bh; yy++) for (let xx = x; xx < x + bw; xx++) if (Math.abs(xx - r.cx) <= 1 || Math.abs(yy - r.cy) <= 1) return false;
-      if (mine.some(p => x <= p.x + p.w && p.x <= x + bw && y <= p.y + p.h && p.y <= y + bh)) return false;   // 한 칸 이상 떨어져 있어야
+      for (let yy = y - 1; yy <= y + bh; yy++) for (let xx = x - 1; xx <= x + bw; xx++) {
+        if (xx < r.x0 || yy < r.y0 || xx >= r.x0 + r.w || yy >= r.y0 + r.h || tiles[yy * w + xx] !== T.FLOOR) return false;   // 둘레 한 칸까지 바닥이어야
+        if (xx >= x && xx < x + bw && yy >= y && yy < y + bh && (Math.abs(xx - r.cx) <= 1 || Math.abs(yy - r.cy) <= 1)) return false;
+      }
       const p = { room: r.id, x, y, w: bw, h: bh }; mine.push(p); pillars.push(p);
       for (let yy = y; yy < y + bh; yy++) for (let xx = x; xx < x + bw; xx++) set(xx, yy, T.WALL);
       return true;
     };
-    const qx = Math.floor(r.w / 4), qy = Math.floor(r.h / 4);
-    if (r.layout === 'corners') for (const [px, py] of [[r.x0 + qx - 1, r.y0 + qy - 1], [r.x0 + r.w - qx - 1, r.y0 + qy - 1], [r.x0 + qx - 1, r.y0 + r.h - qy - 1], [r.x0 + r.w - qx - 1, r.y0 + r.h - qy - 1]]) place(px, py, 2, 2);
-    if (r.layout === 'rows') for (const yy of [r.cy - 3, r.cy + 3]) for (let xx = r.x0 + 2; xx < r.x0 + r.w - 2; xx += 3) place(xx, yy, 1, 1);
-    if (r.layout === 'bars') for (const [px, py] of [[r.x0 + 3, r.y0 + 2], [r.x0 + r.w - 4, r.y0 + 2], [r.x0 + 3, r.cy + 2], [r.x0 + r.w - 4, r.cy + 2]]) place(px, py, 1, 3);
-    if (r.layout === 'diagonal') for (const [dx, dy] of [[-4, -3], [3, -3], [-4, 2], [3, 2], [-7, -4], [6, 3]]) place(r.cx + dx, r.cy + dy, 2, 2);
-    if (r.layout === 'scatter') for (let k = 0, n = 6 + rng.int(4); k < 60 && mine.length < n; k++) { const bw = 1 + rng.int(2); place(r.x0 + 1 + rng.int(r.w - 2), r.y0 + 1 + rng.int(r.h - 2), bw, bw === 2 ? 1 : 1 + rng.int(2)); }
+    const qx = Math.floor(r.w / 4), qy = Math.floor(r.h / 4), j = () => rng.int(3) - 1;
+    for (const L of lay) {
+      if (L === 'corners') for (const [px, py] of [[r.x0 + qx - 1, r.y0 + qy - 1], [r.x0 + r.w - qx - 1, r.y0 + qy - 1], [r.x0 + qx - 1, r.y0 + r.h - qy - 1], [r.x0 + r.w - qx - 1, r.y0 + r.h - qy - 1]]) place(px + j(), py + j(), 2, 2);
+      if (L === 'rows') { const gap = 2 + rng.int(3); for (const yy of [r.cy - 3 - rng.int(2), r.cy + 3 + rng.int(2)]) for (let xx = r.x0 + 2 + rng.int(2); xx < r.x0 + r.w - 2; xx += gap) place(xx, yy, 1, 1); }
+      if (L === 'bars') for (const [px, py] of [[r.x0 + 3, r.y0 + 2], [r.x0 + r.w - 4, r.y0 + 2], [r.x0 + 3, r.cy + 2], [r.x0 + r.w - 4, r.cy + 2]]) if (rng.chance(0.75)) place(px + j(), py, 1, 2 + rng.int(2));
+      if (L === 'diagonal') for (const [dx, dy] of [[-4, -3], [3, -3], [-4, 2], [3, 2], [-7, -4], [6, 3]]) place(r.cx + dx + j(), r.cy + dy, 2, 1 + rng.int(2));
+      if (L === 'scatter') for (let k = 0, n = 4 + rng.int(6); k < 60 && mine.length < n + 2; k++) { const bw = 1 + rng.int(3); place(r.x0 + 1 + rng.int(r.w - 2), r.y0 + 1 + rng.int(r.h - 2), bw, bw === 3 ? 1 : 1 + rng.int(2)); }
+      if (L === 'walls') for (const [px, py, bw, bh] of [[r.x0 + 2, r.cy - 4, 4, 1], [r.x0 + r.w - 6, r.cy + 3, 4, 1], [r.cx + 3, r.y0 + 2, 1, 3], [r.cx - 4, r.y0 + r.h - 5, 1, 3]]) if (rng.chance(0.7)) place(px + j(), py, bw, bh);
+    }
   }
   const doorOwner = {}; for (const d of doors) for (const k of d.tiles) doorOwner[k] = d.room;
   return { line, order, w, h, tiles, rooms, links, doors, doorOwner, pillars };

diff --git a/makcha/sim/run.js b/makcha/sim/run.js
@@ -11,7 +11,7 @@ export function createRun({ seed, job }) {
   const J = JOBS[job];
   return { seed: seed >>> 0, job, visited: [], ticks: 0, escaped: false, dead: false,
     hp: J.hp, maxHp: J.hp, shield: J.shield, maxShield: J.shield, energy: J.energy, maxEnergy: J.energy,
-    weapons: [{ id: J.weapon, lv: 0 }], cur: 0, parts: 0, mats: {}, gear: { head: null, body: null, feet: null }, abilities: [] };
+    weapons: [{ id: J.weapon, lv: 0 }], cur: 0, skillLv: 1, parts: 0, mats: {}, gear: { head: null, body: null, feet: null }, abilities: [] };
 }
 
 export function difficulty(order) { return { hpMul: 1 + 0.25 * order, extra: Math.floor(order / 2) }; }
@@ -27,7 +27,7 @@ export function offerLines(run, open) {
 
 export function enterLine(run, line) {
   return createWorld({ seed: (run.seed + run.visited.length * 7919 + line * 104729) >>> 0, job: run.job, line, order: run.visited.length,
-    loadout: { weapons: run.weapons, cur: run.cur, gear: run.gear, abilities: run.abilities,
+    loadout: { weapons: run.weapons, cur: run.cur, gear: run.gear, abilities: run.abilities, skillLv: run.skillLv,
       stats: { hp: run.hp, maxHp: run.maxHp, shield: run.shield, maxShield: run.maxShield, energy: run.energy, maxEnergy: run.maxEnergy } } });
 }
 
@@ -42,12 +42,19 @@ export function finishLine(run, w) {
   return run;
 }
 
-// ---------- 무기 강화: 부품으로 단계를 올린다(최대 5단계). 단계마다 피해 +20%, 연사 +5% ----------
-export const MAX_LV = 5, ENHANCE_COST = lv => 4 + 3 * lv;
+// ---------- 무기 강화: 부품으로 단계를 올린다(최대 3단계). 단계마다 피해 +30%, 연사 +8% ----------
+export const MAX_LV = 3, ENHANCE_COST = lv => 6 + 6 * lv;
 export function enhanceWeapon(run, slot) {
   const wpn = run.weapons[slot]; if (!wpn || wpn.lv >= MAX_LV) return false;
   const c = ENHANCE_COST(wpn.lv); if (run.parts < c) return false;
   run.parts -= c; wpn.lv++; return true;
+}
+
+// ---------- 스킬 레벨업: 부품으로 2·3레벨. 레벨마다 효과 +30%, 대기 시간 −15% ----------
+export const SKILL_MAX = 3, SKILL_COST = lv => 8 * lv;
+export function upgradeSkill(run) {
+  if (run.skillLv >= SKILL_MAX || run.parts < SKILL_COST(run.skillLv)) return false;
+  run.parts -= SKILL_COST(run.skillLv); run.skillLv++; return true;
 }
 
 // ---------- 장비 만들기: 재료로 머리·몸·발 장비를 만든다. 재난 막기는 호선 재난을 넣을 때 연결한다 ----------
@@ -76,6 +83,7 @@ export const ABILITIES = {
   bounce:     { kind: 'gun', name: '튕김탄', text: '탄이 벽에 맞으면 한 번 튕긴다' },
   homing:     { kind: 'gun', name: '유도탄', text: '탄이 가까운 적 쪽으로 휜다' },
   boom:       { kind: 'gun', name: '폭발탄', text: '맞은 자리에서 작은 폭발이 일어난다' },
+  focus:      { kind: 'gun', name: '집탄', text: '탄이 덜 퍼지고 한곳으로 모인다' },
   rapid:      { kind: 'gun', name: '속사', text: '연사 속도 +25%' },
   bigShot:    { kind: 'gun', name: '강한 탄', text: '모든 무기 피해 +30%' },
   maxHp:      { kind: 'body', name: '튼튼한 몸', text: '최대 체력 +2' },
